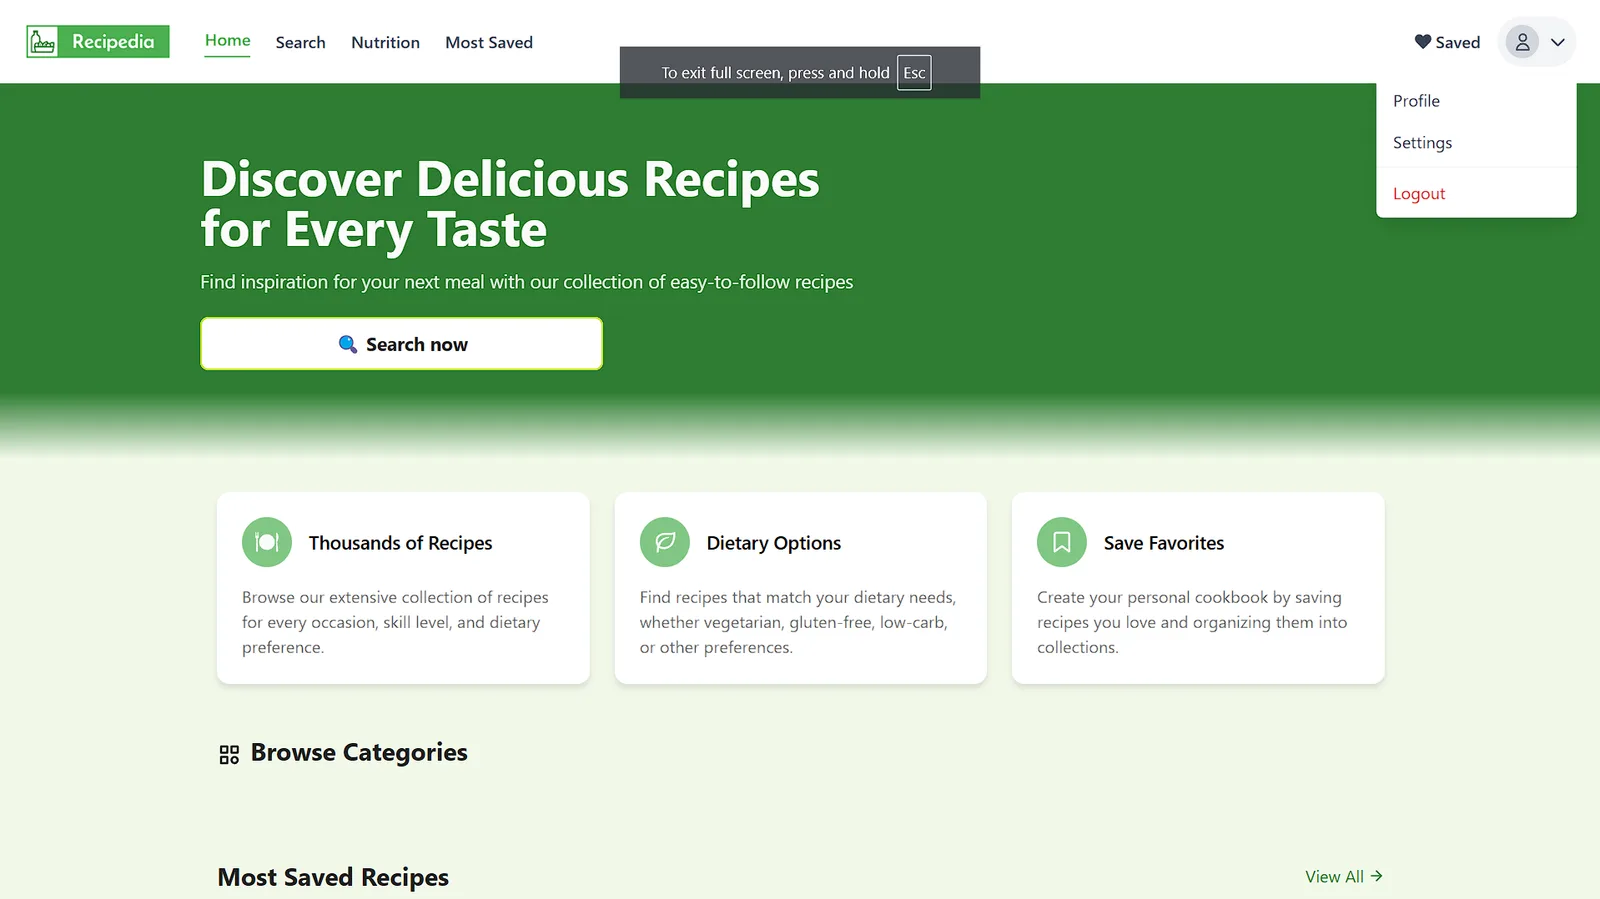
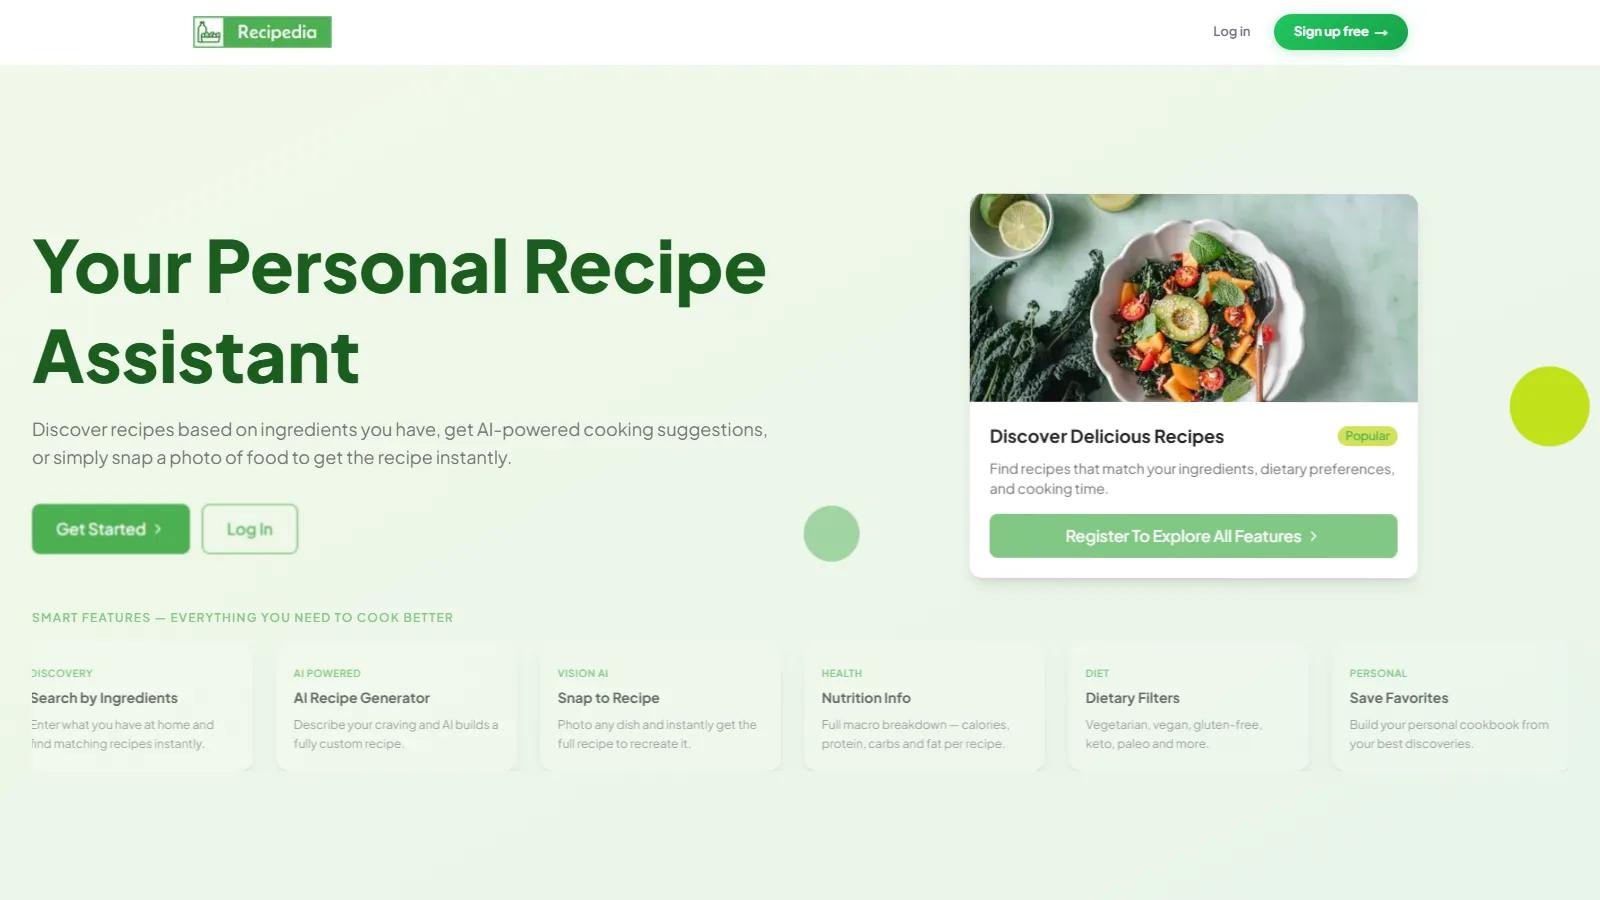
feat(projects): feature the new Recipedia
Selected Works and the projects page now point to the Next.js version
at recipedia-client-eight.vercel.app instead of the old React build.
The stack matches the RecipediaServer repo (NestJS, Prisma, PostgreSQL,
Redis, Gemini, Supabase), the features match the live site, and the
screenshot is a fresh capture of its landing page.

diff --git a/app/src/data/projects.js b/app/src/data/projects.js
@@ -803,26 +803,30 @@ export const projectsData = [
     id: 20,
     title: "Recipedia",
     description:
-      "Recipedia adalah platform penemuan resep pintar yang membantu pengguna menemukan resep berdasarkan bahan yang tersedia, kebutuhan diet, dan preferensi pribadi. Dengan pengenalan gambar berbasis AI, Recipedia dapat menganalisis gambar makanan dan menghasilkan daftar bahan, membuat memasak lebih mudah dan dapat diakses.",
+      "Asisten resep berbasis AI. Pengguna mencari resep dari bahan yang ada di kulkas, meminta AI membuatkan resep sesuai keinginan, atau memotret makanan untuk langsung mendapatkan resepnya. Dilengkapi info nutrisi, filter diet, resep favorit, rencana makan mingguan, dan daftar belanja otomatis.",
     category: "web",
     image: "images/recipedia.webp",
     link: "https://recipedia-client-eight.vercel.app/",
     techLogos: [
-      "React.js",
-      "AI",
-      "Express.js",
-      "JavaScript",
-      "Node.js",
+      "Next.js",
+      "Tailwind CSS",
+      "NestJS",
+      "Prisma",
       "PostgreSQL",
+      "Redis",
+      "Google Gemini AI",
+      "Supabase Auth",
     ],
     completed: true,
     duration: "4 months",
     liveUrl: "https://recipedia-client-eight.vercel.app/",
     keyFeatures: [
-      "Pencarian resep berdasarkan bahan yang tersedia di rumah",
-      "Kalkulator nutrisi yang memberikan rekomendasi makan sesuai dengan berat badan, tinggi badan, dan tujuan diet",
-      "Pengenalan gambar berbasis AI untuk mengunggah gambar makanan dan menghasilkan daftar bahan",
-      "Database resep yang luas dari Spoonacular dan berbagai sumber lainnya",
+      "Pencarian resep berdasarkan bahan yang tersedia di kulkas",
+      "AI Recipe Generator: tulis keinginan, AI menyusun resep lengkap",
+      "Snap to Recipe: foto makanan, dapatkan resep untuk membuatnya",
+      "Info nutrisi per resep dan filter diet (vegetarian, vegan, gluten-free, keto)",
+      "Rencana makan mingguan dengan daftar belanja otomatis",
+      "Simpan resep favorit dan lihat resep yang sedang trending",
     ],
     challengesAndSolutions:
       "Tantangan utama adalah mengembangkan kemampuan pengenalan gambar berbasis AI yang dapat mengidentifikasi bahan makanan dengan akurasi tinggi. Untuk itu, kami menggunakan algoritma pembelajaran mesin dan API pengenalan gambar untuk mengolah gambar makanan dan menghasilkan daftar bahan yang akurat. Kami juga mengintegrasikan database resep besar untuk memberikan berbagai pilihan masakan yang sesuai dengan kebutuhan diet pengguna.",

diff --git a/app/src/data/bestProjects.js b/app/src/data/bestProjects.js
@@ -46,15 +46,15 @@ export const bestProjects = [
     id: 4,
     title: "Recipedia",
     description:
-      "Recipedia adalah platform pintar untuk menemukan resep yang membantu pengguna mencari resep berdasarkan bahan yang tersedia, kebutuhan nutrisi, dan preferensi pribadi. Dengan teknologi pengenalan gambar berbasis AI, Recipedia dapat menganalisis gambar makanan dan menghasilkan daftar bahan, membuat memasak lebih mudah dan dapat diakses.",
+      "Asisten resep berbasis AI. Pengguna mencari resep dari bahan yang ada di kulkas, meminta AI membuatkan resep sesuai keinginan, atau memotret makanan untuk langsung mendapatkan resepnya. Dilengkapi info nutrisi, filter diet, resep favorit, rencana makan mingguan, dan daftar belanja otomatis.",
     category: "web",
     image: "images/recipedia.webp",
-    liveUrl: "https://recipedia-e625b.web.app/",
+    liveUrl: "https://recipedia-client-eight.vercel.app/",
     techStack: {
-      frontend: ["React.js", "Tailwind CSS"],
-      backend: ["Node.js", "Express.js"],
-      database: ["PostgreSQL"],
-      utilities: ["AI", "Spoonacular API", "Axios"],
+      frontend: ["Next.js", "Tailwind CSS"],
+      backend: ["NestJS", "Prisma"],
+      database: ["PostgreSQL", "Redis"],
+      utilities: ["Google Gemini AI", "Supabase Auth"],
     },
   },
   {
